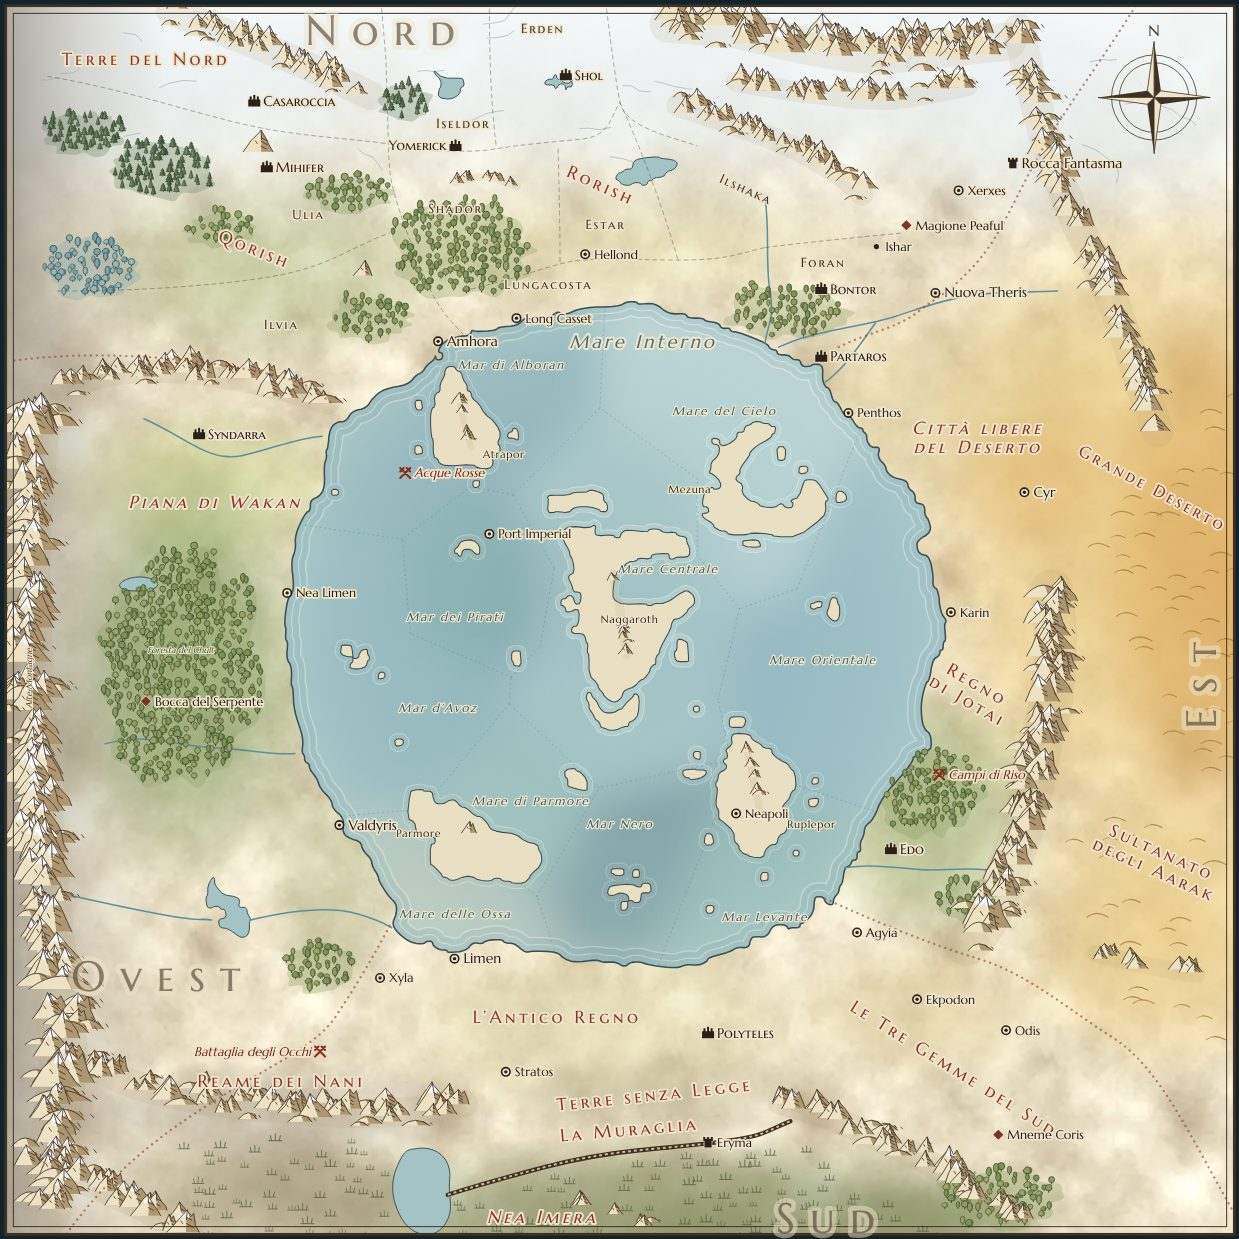
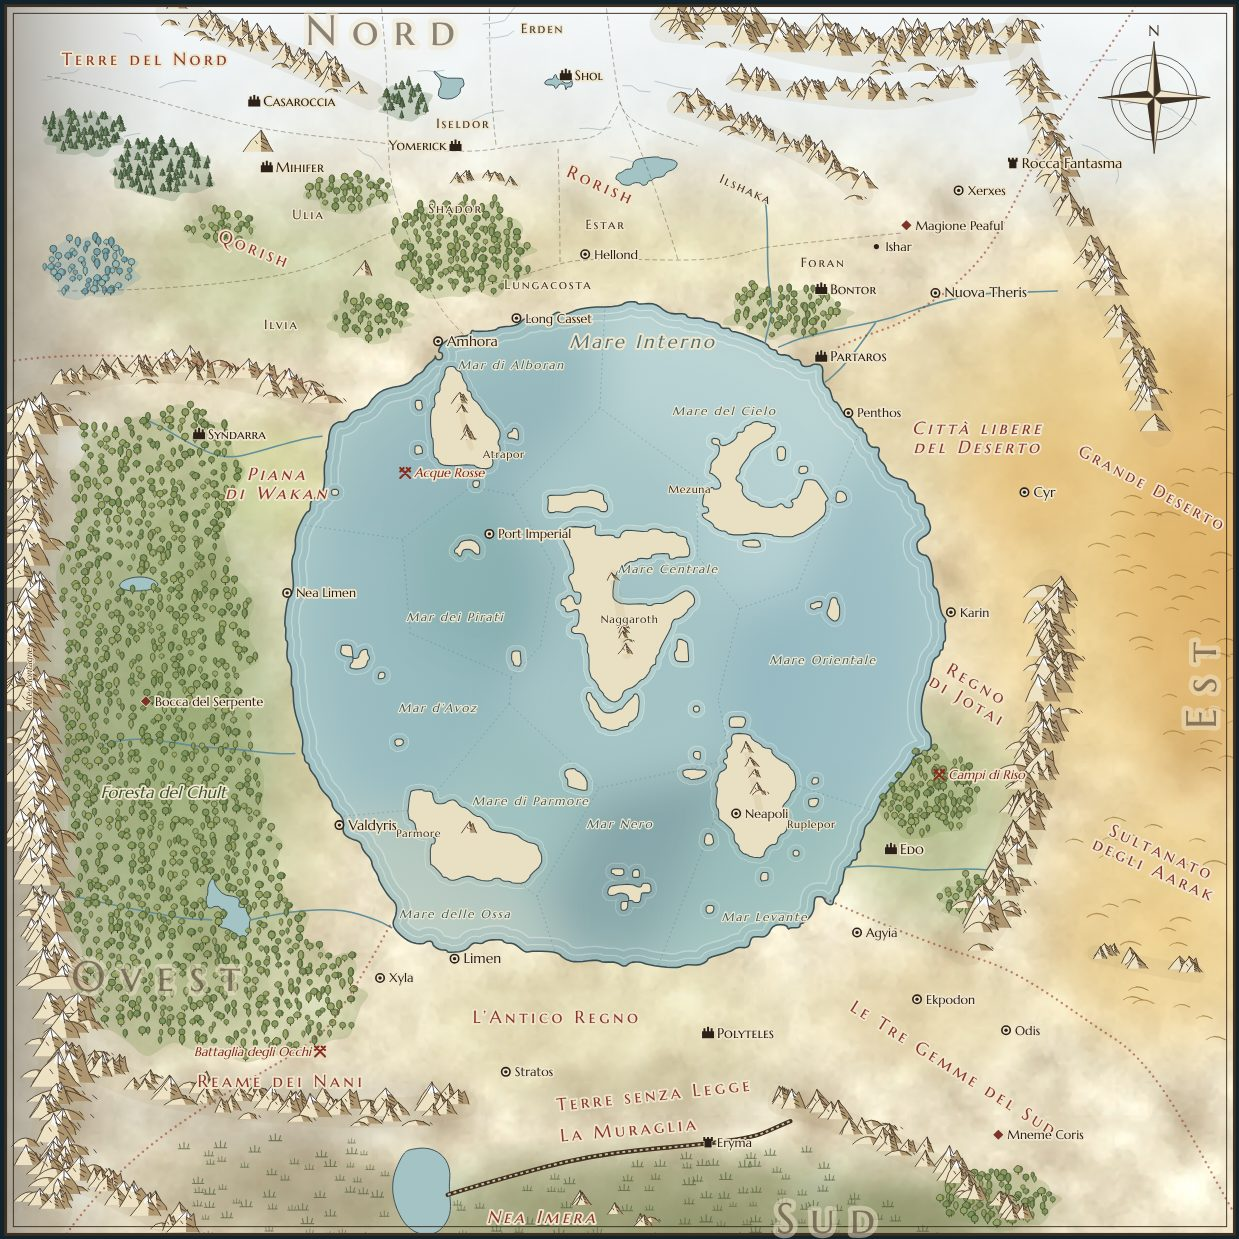
Make the Chult the great forest the wiki describes
The wiki says the Chult covers about two thirds of the West, is as large as the whole
Rorish and holds the elven kingdom of Syndarra; the painted map showed a small patch.
The forest now runs from Syndarra down to the mountains of the Reame dei Nani and from
the Alte Montagne to a strip of fields along the coast, reaching Xyla to the south-east,
with a natural, jagged edge. The Piana di Wakan stays in the north, between the forest
and the coast. The 3D view and the preview images follow.

Claude-Session: https://claude.ai/code/session_012vmjmA4teUpTfauaw8kKfQ

diff --git a/app/utils/mappa.ts b/app/utils/mappa.ts
@@ -285,7 +285,17 @@ export const MAPPA_PICCHI: [number, number, number][] = [
 ]
 
 /** Forests: centre, radii, kind of tree. */
-const FORESTE: { c: Punto; r: Punto; tipo: 'latifoglie' | 'conifere' | 'cerulea' }[] = [
+/**
+ * Forests: centre, radii and kind of tree; a forest with an outline (`contorno`) follows it instead of an ellipse,
+ * and `passo` spaces its trees wider.
+ */
+const FORESTE: {
+  c: Punto
+  r: Punto
+  tipo: 'latifoglie' | 'conifere' | 'cerulea'
+  contorno?: Punto[]
+  passo?: number
+}[] = [
   { c: [165, 176], r: [56, 28], tipo: 'conifere' }, // Foresta delle Rocce
   { c: [86, 138], r: [40, 22], tipo: 'conifere' },
   { c: [418, 106], r: [28, 18], tipo: 'conifere' }, // Foresta del Sussurro
@@ -295,8 +305,44 @@ const FORESTE: { c: Punto; r: Punto; tipo: 'latifoglie' | 'conifere' | 'cerulea'
   { c: [380, 330], r: [44, 22], tipo: 'latifoglie' }, // woods of Ilvia
   { c: [478, 258], r: [70, 50], tipo: 'latifoglie' }, // Foresta di Shandora
   { c: [812, 322], r: [62, 26], tipo: 'latifoglie' }, // Foresta di Tyr
-  { c: [186, 690], r: [82, 128], tipo: 'latifoglie' }, // Foresta del Chult
-  { c: [330, 1000], r: [36, 26], tipo: 'latifoglie' }, // the jungle at Xyla
+  // Foresta del Chult. The wiki: about two thirds of the West, as large as the whole Rorish, the largest forest of
+  // the Ring, with the elven kingdom of Syndarra inside it. North of it the Piana di Wakan, between it and the sea a
+  // strip of fields for the coastal cities; to the south-east it reaches Xyla, "at the edge of the jungles"
+  {
+    c: [180, 760],
+    r: [190, 340],
+    tipo: 'latifoglie',
+    passo: 11,
+    contorno: [
+      [80, 445],
+      [140, 430],
+      [205, 426],
+      [238, 450],
+      [244, 505],
+      [232, 560],
+      [252, 605],
+      [258, 660],
+      [250, 720],
+      [262, 780],
+      [270, 840],
+      [285, 890],
+      [300, 940],
+      [330, 975],
+      [368, 1000],
+      [372, 1040],
+      [340, 1075],
+      [280, 1090],
+      [200, 1085],
+      [130, 1075],
+      [85, 1040],
+      [72, 960],
+      [70, 860],
+      [68, 760],
+      [68, 660],
+      [70, 560],
+      [72, 490],
+    ],
+  },
   { c: [960, 820], r: [56, 44], tipo: 'latifoglie' }, // Terre Verdi di Jotai
   { c: [1000, 930], r: [28, 22], tipo: 'latifoglie' },
   { c: [1030, 1238], r: [62, 30], tipo: 'latifoglie' }, // Foresta di Sathros
@@ -392,9 +438,9 @@ export const MAPPA_BIOMI: { c: Punto; r: Punto; colore: string; forza: number }[
   { c: [290, 1232], r: [175, 72], colore: 'fango', forza: 0.65 },
   { c: [960, 1262], r: [130, 52], colore: 'palude', forza: 0.5 },
   // West: the plain of Wakan, the Chult, the coast, the stone of the Dwarves
-  { c: [210, 500], r: [175, 92], colore: 'erba', forza: 0.6 },
-  { c: [190, 690], r: [155, 235], colore: 'bosco', forza: 0.65 },
-  { c: [345, 900], r: [85, 140], colore: 'verde', forza: 0.3 },
+  { c: [282, 495], r: [85, 85], colore: 'erba', forza: 0.6 },
+  { c: [175, 760], r: [175, 360], colore: 'bosco', forza: 0.65 },
+  { c: [320, 830], r: [60, 170], colore: 'prato', forza: 0.35 },
   { c: [290, 1150], r: [230, 55], colore: 'pietra', forza: 0.45 },
 ]
 
@@ -581,15 +627,17 @@ export function terrenoMappa(): Terreno {
   for (const foresta of FORESTE) {
     const [cx, cy] = foresta.c
     const [rx, ry] = foresta.r
-    // An irregular outline around the ellipse
-    const bordo: Punto[] = []
-    for (let i = 0; i < 28; i++) {
-      const a = (i / 28) * Math.PI * 2
-      const k = 0.85 + r() * 0.3
-      bordo.push([cx + Math.cos(a) * rx * k, cy + Math.sin(a) * ry * k])
+    // The drawn outline, or an irregular one around the ellipse
+    const bordo: Punto[] = foresta.contorno ? frastaglia(foresta.contorno, r) : []
+    if (!foresta.contorno) {
+      for (let i = 0; i < 28; i++) {
+        const a = (i / 28) * Math.PI * 2
+        const k = 0.85 + r() * 0.3
+        bordo.push([cx + Math.cos(a) * rx * k, cy + Math.sin(a) * ry * k])
+      }
     }
     boschi.push({ d: percorsoMorbido(bordo), tipo: foresta.tipo })
-    const passo = foresta.tipo === 'conifere' ? 8 : 9
+    const passo = foresta.passo ?? (foresta.tipo === 'conifere' ? 8 : 9)
     for (let y = cy - ry; y <= cy + ry; y += passo * 0.8) {
       for (let x = cx - rx; x <= cx + rx; x += passo) {
         const p: Punto = [x + (r() - 0.5) * passo * 0.8, y + (r() - 0.5) * passo * 0.6]
@@ -769,4 +817,21 @@ function disegnaColle(x: number, y: number, s: number, r: () => number): Monte {
     linee += `M${pt(cx + w * t, y - h * (0.75 - i * 0.25))}l${pt(w * 0.07, h * 0.3)}`
   }
   return { y, corpo, ombra, linee }
+}
+
+/** A drawn outline made natural: every side split in three, the new points pushed in or out a little */
+function frastaglia(contorno: Punto[], r: () => number): Punto[] {
+  const out: Punto[] = []
+  for (let i = 0; i < contorno.length; i++) {
+    const [x1, y1] = contorno[i]!
+    const [x2, y2] = contorno[(i + 1) % contorno.length]!
+    const lungo = Math.hypot(x2 - x1, y2 - y1) || 1
+    const [nx, ny] = [-(y2 - y1) / lungo, (x2 - x1) / lungo]
+    out.push([x1, y1])
+    for (const t of [1 / 3, 2 / 3]) {
+      const scarto = (r() - 0.5) * Math.min(lungo * 0.5, 26)
+      out.push([x1 + (x2 - x1) * t + nx * scarto, y1 + (y2 - y1) * t + ny * scarto])
+    }
+  }
+  return out
 }

diff --git a/app/utils/mappaRilievo.ts b/app/utils/mappaRilievo.ts
@@ -36,11 +36,11 @@ const ERYMA: Punto = [731, 1181]
 
 /** Land shapes and how they lie, by area: [centre, radii, how much higher (or lower), how rough] */
 const CARATTERE: { c: Punto; r: Punto; quota: number; ruvido: number }[] = [
-  { c: [210, 500], r: [170, 90], quota: -2, ruvido: 0.15 }, // Piana di Wakan: flat grass
+  { c: [282, 495], r: [80, 80], quota: -2, ruvido: 0.15 }, // Piana di Wakan: flat grass
   { c: [700, 1268], r: [440, 100], quota: -5, ruvido: 0.25 }, // the marsh past the Wall
   { c: [290, 1232], r: [175, 72], quota: -4, ruvido: 0.25 }, // Sabbie Mobili
   { c: [1180, 560], r: [250, 380], quota: 1, ruvido: 0.7 }, // dunes of the Great Desert
-  { c: [190, 690], r: [160, 240], quota: 3, ruvido: 1.2 }, // the Chult: rough ground under the trees
+  { c: [175, 760], r: [170, 350], quota: 3, ruvido: 1.2 }, // the Chult: rough ground under the trees
   { c: [640, 90], r: [640, 110], quota: 1, ruvido: 0.6 }, // the frozen moor of the North
 ]
 

diff --git a/app/components/mappa/MappaAnello.vue b/app/components/mappa/MappaAnello.vue
@@ -86,6 +86,8 @@ const nomi = computed(() =>
       let classe = stile.classe
       // The Mare Interno is a "land" of its own, but written like a sea
       if (l.tipo === 'macro' && l.area === 'mare') [fs, classe] = [19, 'n-mare n-mare-interno']
+      // The great forests (the Chult) are named large, like regions
+      if (l.tipo === 'foresta' && l.livello <= 1) fs = 17
       // The four lands and the sea are names for the whole map: they step aside when zooming in
       if (l.tipo === 'macro') classe += ' n-vasto'
       // Readable from about 7.5px on screen, never before the step of its level
